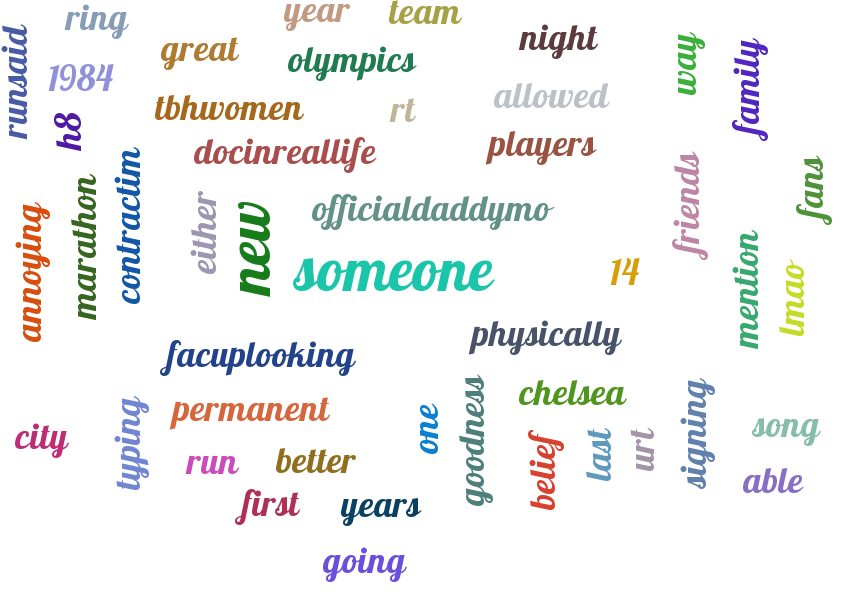
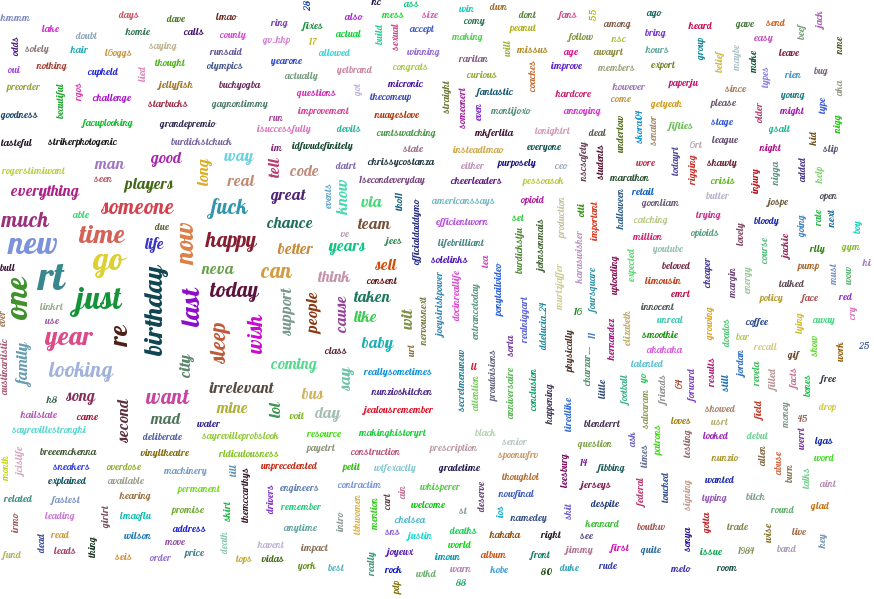
Playing around with wordclouds

Changed region(s): [[0.0, 0.0, 1.0, 0.9917], [0.9416, 0.0601, 0.972, 0.0902]]

diff --git a/Securities_Main/Main.py b/Securities_Main/Main.py
@@ -1,9 +1,7 @@
 # COS 720 Securities
 # Assignment by Jason R. Evans 13032608 & Vivian L. Venter 13238435
 
-import sys
-import re
-from pytagcloud import create_tag_image, make_tags
+from pytagcloud import create_tag_image, make_tags, LAYOUTS
 from pytagcloud.lang.counter import get_tag_counts
 from pymongo import MongoClient
 from DataCleanup import Cleanup
@@ -16,26 +14,26 @@ def cleanupContent(data):
 
     for tweet in data:
         content = tweet['Content']
-        print("Before Cleanup: " + content)
+        print(str(count) + " Before Cleanup: " + content)
         text = Cleanup().HTMLCharEscaping(content)
         text = Cleanup().NonPrintableChars(text)
         text = Cleanup().ToLowercase(text)
         text = Cleanup().RemoveLinks(text)
         text = Cleanup().RemoveMentions(text)
         text = Cleanup().RemoveStopWords(text)
-        print("After Cleanup: " + text)
+        print(str(count) + " After Cleanup: " + text)
 
         global DATA
         DATA = DATA + unicode(text)
 
         count = count + 1
-        if count == 10:
+        if count == 50:
             break
 
 def CreateWordcloud():
     global DATA
     tags = make_tags(get_tag_counts(DATA))
-    create_tag_image(tags, 'tester-image.png', size=(900, 600), fontname='Lobster')
+    create_tag_image(tags, 'image.png', size=(900, 600), background=(0, 0, 0, 0), fontname='Lobster')
 
 
 ##Main implementation
